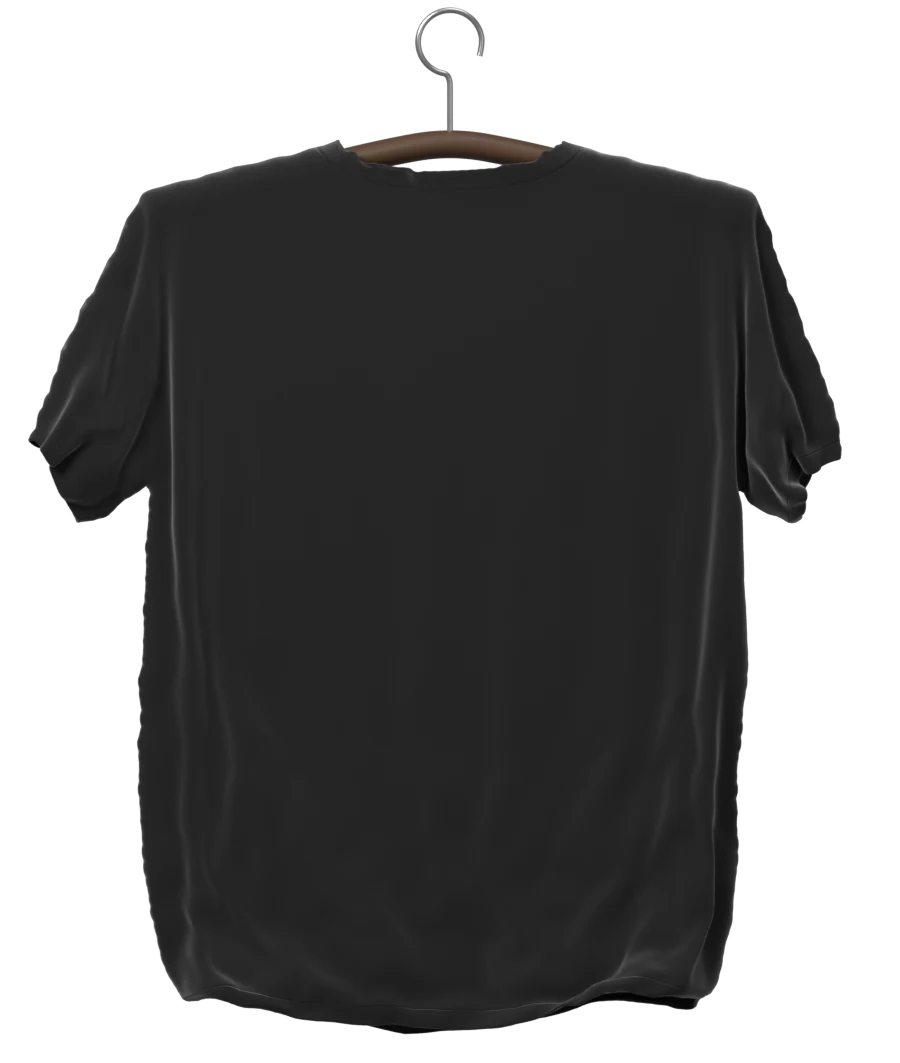
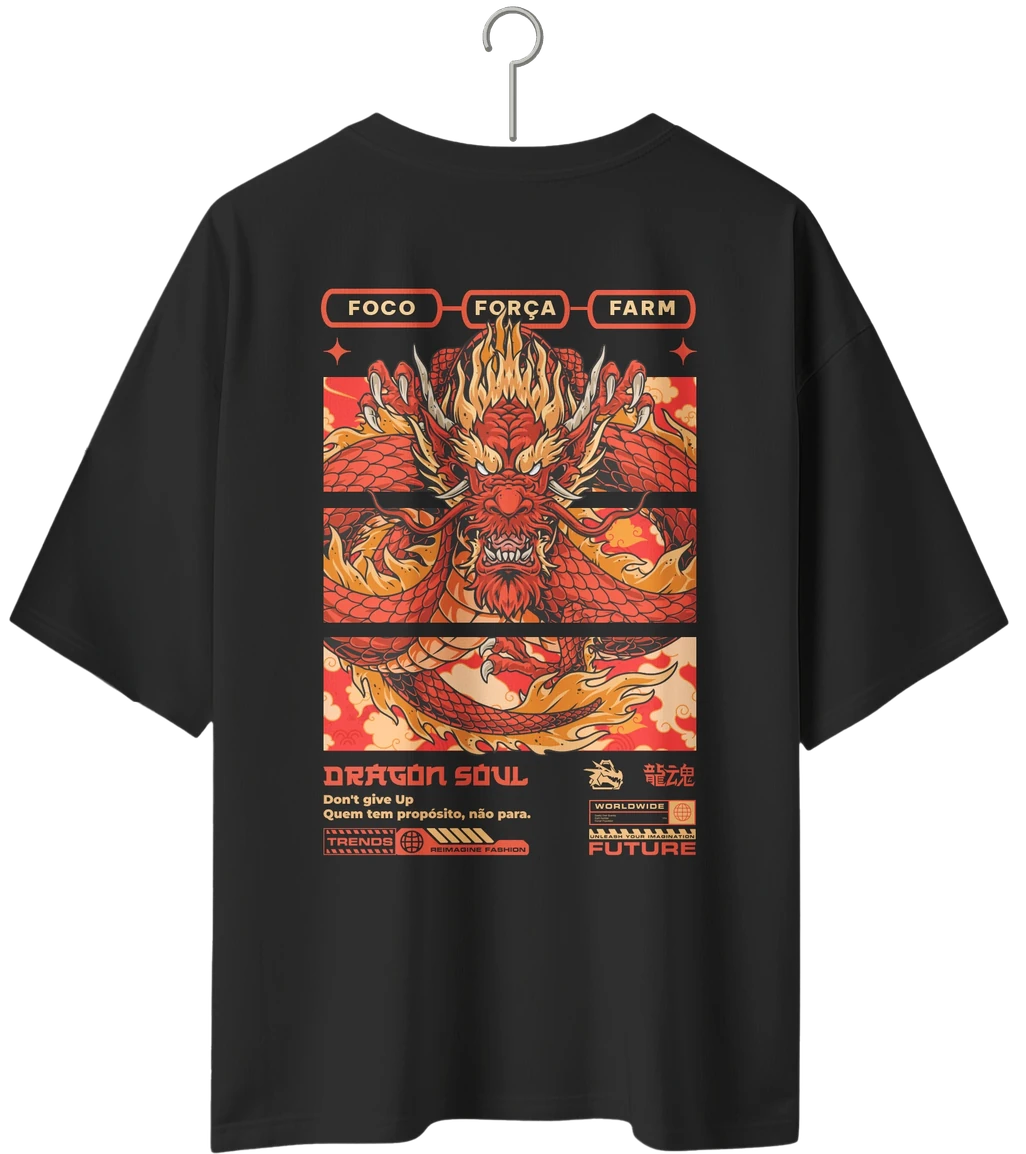
Use the Kria collection mockups on the rack
Replace the rendered placeholder shirts with the supplied front and back
mockups of the white and black tees, each with a hanger hook.

Claude-Session: https://claude.ai/code/session_01KS3zFa9ZHKkygYPNsyMhrA

Changed region(s): [[0.0, 0.0, 0.9956, 1.0], [0.3111, 0.2484, 0.6844, 0.7451]]

diff --git a/src/components/kria-rack.tsx b/src/components/kria-rack.tsx
@@ -2,8 +2,8 @@ import { useEffect, useState, type CSSProperties } from "react";
 import { ArrowLeft, ArrowRight, X } from "lucide-react";
 import blackBack from "@/assets/kria-rack/black-back.webp";
 import blackFront from "@/assets/kria-rack/black-front.webp";
-import offwhiteBack from "@/assets/kria-rack/offwhite-back.webp";
-import offwhiteFront from "@/assets/kria-rack/offwhite-front.webp";
+import whiteBack from "@/assets/kria-rack/white-back.webp";
+import whiteFront from "@/assets/kria-rack/white-front.webp";
 import { useLanguage } from "@/i18n/language-context";
 import { interpolate } from "@/i18n/translations";
 import "./kria-rack.css";
@@ -24,12 +24,11 @@ type Garment = {
 };
 
 const garments: Garment[] = [
-  { id: "black", name: "Dragon Soul Tee — Black", frontImage: blackFront, backImage: blackBack },
-  { id: "offwhite", name: "Dragon Soul Tee — Off-white", frontImage: offwhiteFront, backImage: offwhiteBack },
-  { id: "crest", name: "Dragon Crest Tee — Black", frontImage: blackFront, backImage: blackBack },
+  { id: "npc", name: "Don't Be an NPC Tee — White", frontImage: whiteFront, backImage: whiteBack },
+  { id: "dragon-soul", name: "Dragon Soul Tee — Black", frontImage: blackFront, backImage: blackBack },
 ];
 
-const SPACING = 11; // distance between hangers, in cqw
+const SPACING = 13; // distance between hangers, in cqw
 const HOVER_SHIFT = 9.5; // how far neighbours slide away from the hovered piece
 const SIDE_ANGLE = -66; // resting rotation of a piece on the rack
 

diff --git a/src/components/kria-rack.css b/src/components/kria-rack.css
@@ -44,7 +44,7 @@
   top: 8cqw;
   left: 50%;
   width: 26cqw;
-  aspect-ratio: 900 / 1063;
+  aspect-ratio: 1026 / 1154;
   margin-left: -13cqw;
   padding: 0;
   border: 0;
